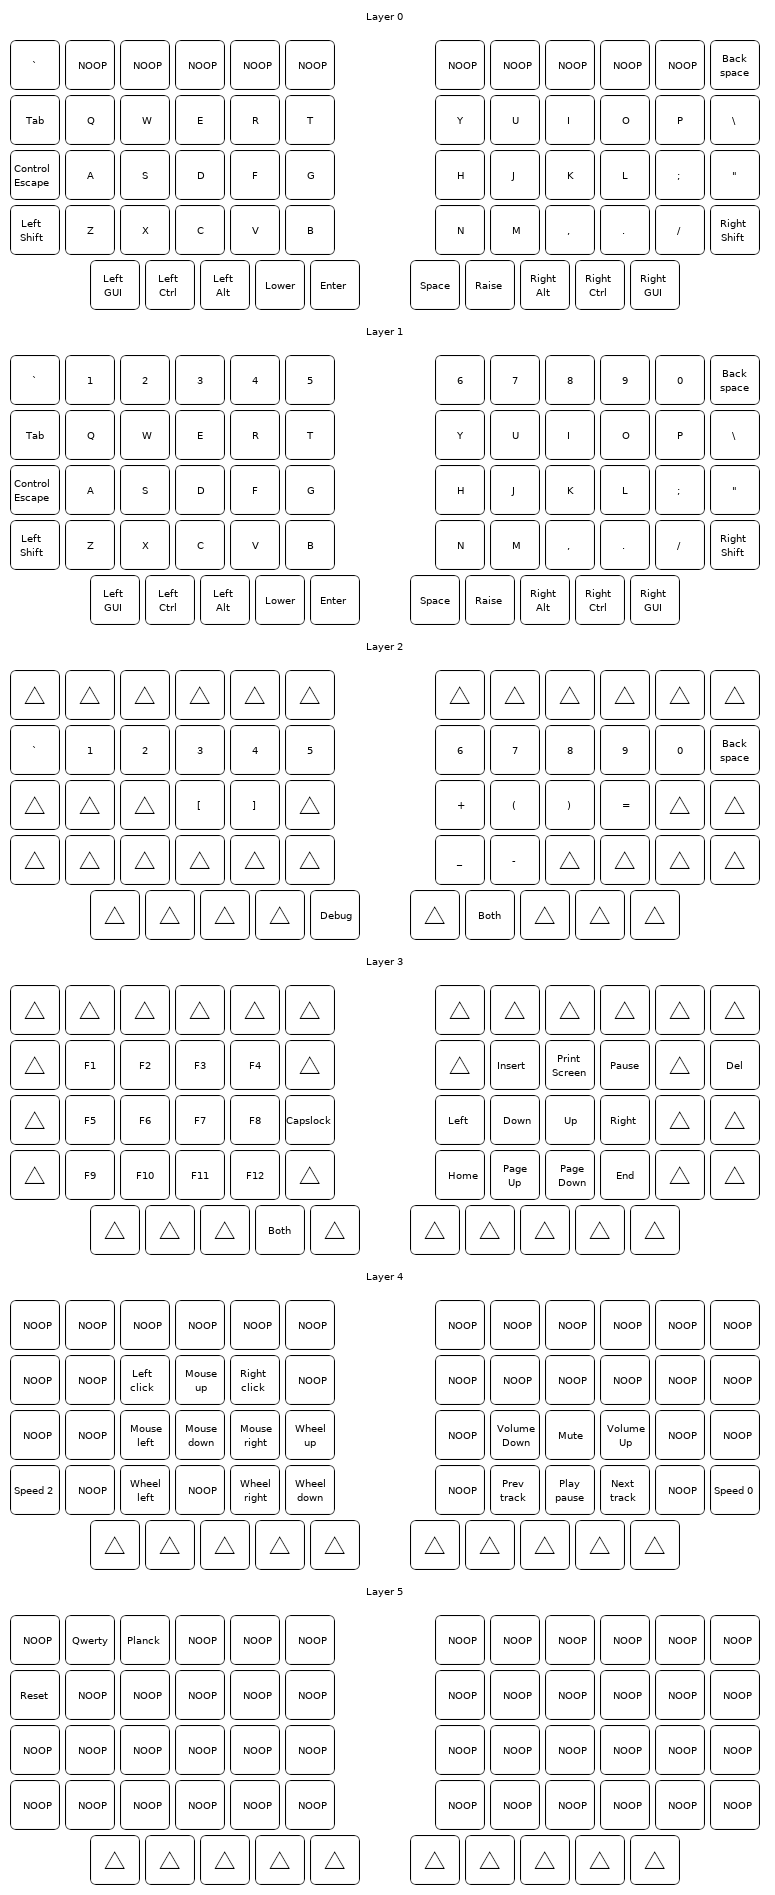
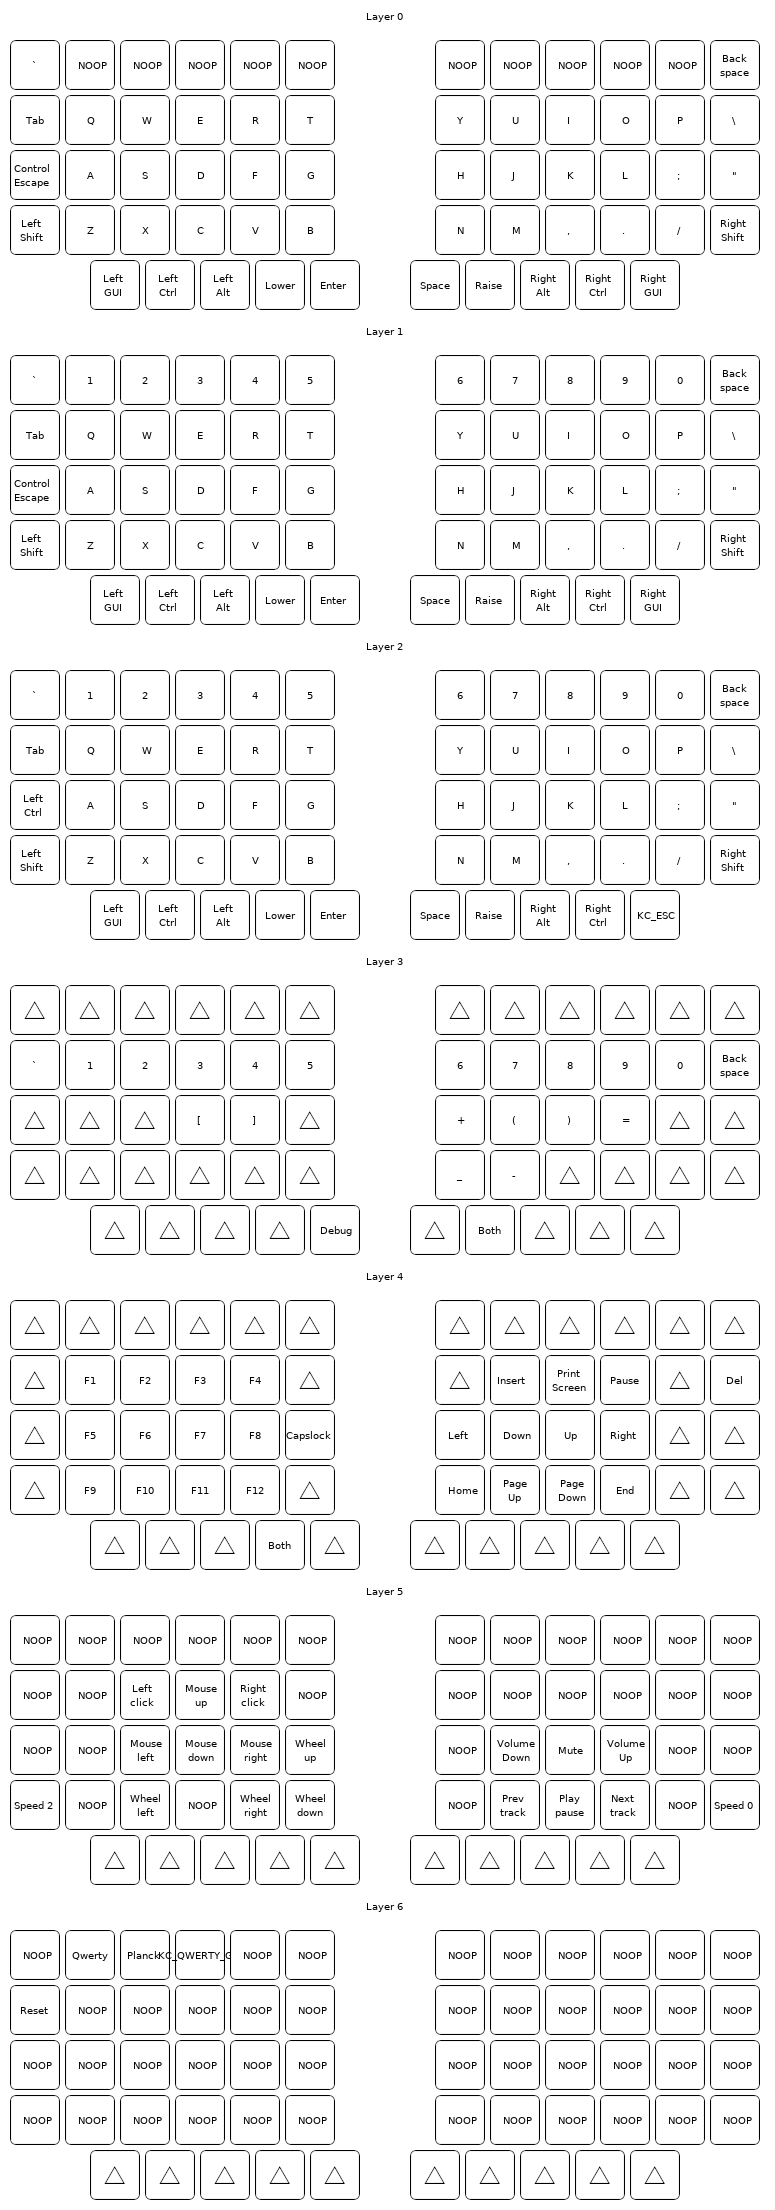
Add game layer

Changed region(s): [[0.5265, 0.0, 0.991, 0.9963], [0.0, 0.0, 0.4645, 0.9963]]

diff --git a/keymap.c b/keymap.c
@@ -3,6 +3,7 @@
 enum sofle_layers {
     _QWERTY,
     _QWERTY_SLIM,
+    _QWERTY_GAME,
     _LOWER,
     _RAISE,
     _BOTH,
@@ -12,6 +13,7 @@ enum sofle_layers {
 enum sofle_keycodes {
     KC_QWERTY = SAFE_RANGE,
     KC_QWERTY_SLIM,
+    KC_QWERTY_GAME,
 };
 
 const uint16_t PROGMEM keymaps[][MATRIX_ROWS][MATRIX_COLS] = {
@@ -60,6 +62,29 @@ const uint16_t PROGMEM keymaps[][MATRIX_ROWS][MATRIX_COLS] = {
   CTL_T(KC_ESC),KC_A,   KC_S,    KC_D,    KC_F,    KC_G,                      KC_H,  KC_J,  KC_K,   KC_L,   KC_SCLN,KC_QUOT,
   KC_LSFT,      KC_Z,   KC_X,    KC_C,    KC_V,    KC_B, KC_MUTE,     _______,KC_N,  KC_M,  KC_COMM,KC_DOT, KC_SLSH,KC_RSFT,
                   KC_LGUI,  KC_LCTRL,KC_LALT,MO(_LOWER), KC_ENT,      KC_SPC,  MO(_RAISE), KC_RALT,  KC_RCTRL, KC_RGUI
+),
+/*
+ * QWERTY (gaming)
+ * ,-----------------------------------------.                    ,-----------------------------------------.
+ * |  `   |   1  |   2  |   3  |   4  |   5  |                    |   6  |   7  |   8  |   9  |   0  | Bspc |
+ * |------+------+------+------+------+------|                    |------+------+------+------+------+------|
+ * | Tab  |   Q  |   W  |   E  |   R  |   T  |                    |   Y  |   U  |   I  |   O  |   P  |  \   |
+ * |------+------+------+------+------+------|                    |------+------+------+------+------+------|
+ * | LCTR |   A  |   S  |   D  |   F  |   G  |-------.    ,-------|   H  |   J  |   K  |   L  |   ;  |  '   |
+ * |------+------+------+------+------+------|       |    |       |------+------+------+------+------+------|
+ * |LShift|   Z  |   X  |   C  |   V  |   B  |-------|    |-------|   N  |   M  |   ,  |   .  |   /  |RShift|
+ * `-----------------------------------------/       /     \      \-----------------------------------------'
+ *            | LGUI | LCTR | LAlt |LOWER | /Space  /       \Enter \  |RAISE | RAlt | RCTR | Esc  |
+ *            |      |      |      |      |/       /         \      \ |      |      |      |      |
+ *            `----------------------------------'           '------''---------------------------'
+ */
+
+[_QWERTY_GAME] = LAYOUT(
+  KC_GRV,       KC_1,   KC_2,    KC_3,    KC_4,    KC_5,                      KC_6,  KC_7,  KC_8,   KC_9,   KC_0,   KC_BSPC,
+  KC_TAB,       KC_Q,   KC_W,    KC_E,    KC_R,    KC_T,                      KC_Y,  KC_U,  KC_I,   KC_O,   KC_P,   KC_BSLS,
+  KC_LCTRL,     KC_A,   KC_S,    KC_D,    KC_F,    KC_G,                      KC_H,  KC_J,  KC_K,   KC_L,   KC_SCLN,KC_QUOT,
+  KC_LSFT,      KC_Z,   KC_X,    KC_C,    KC_V,    KC_B, KC_MUTE,     _______,KC_N,  KC_M,  KC_COMM,KC_DOT, KC_SLSH,KC_RSFT,
+                  KC_LGUI,  KC_LCTRL,KC_LALT,MO(_LOWER), KC_ENT,      KC_SPC,  MO(_RAISE), KC_RALT,  KC_RCTRL, KC_ESC
 ),
 /* LOWER
  * ,-----------------------------------------.                    ,-----------------------------------------.
@@ -126,7 +151,7 @@ const uint16_t PROGMEM keymaps[][MATRIX_ROWS][MATRIX_COLS] = {
 ),
 /* DEBUG
  * ,-----------------------------------------.                    ,-----------------------------------------.
- * |      |QWERTY| SLIM |      |      |      |                    |      |      |      |      |      |      |
+ * |      |QWERTY| SLIM | GAME |      |      |                    |      |      |      |      |      |      |
  * |------+------+------+------+------+------|                    |------+------+------+------+------+------|
  * | RESET|      |      |      |      |      |                    |      |      |      |      |      |      |
  * |------+------+------+------+------+------|                    |------+------+------+------+------+------|
@@ -139,7 +164,7 @@ const uint16_t PROGMEM keymaps[][MATRIX_ROWS][MATRIX_COLS] = {
  *            `----------------------------------'           '------''---------------------------'
  */
 [_DEBUG] = LAYOUT(
-  XXXXXXX, KC_QWERTY, KC_QWERTY_SLIM, XXXXXXX, XXXXXXX, XXXXXXX,                       XXXXXXX, XXXXXXX, XXXXXXX, XXXXXXX, XXXXXXX, XXXXXXX,
+  XXXXXXX, KC_QWERTY, KC_QWERTY_SLIM, KC_QWERTY_GAME, XXXXXXX, XXXXXXX,                       XXXXXXX, XXXXXXX, XXXXXXX, XXXXXXX, XXXXXXX, XXXXXXX,
   RESET,   XXXXXXX, XXXXXXX, XXXXXXX, XXXXXXX, XXXXXXX,                       XXXXXXX, XXXXXXX, XXXXXXX, XXXXXXX, XXXXXXX, XXXXXXX,
   XXXXXXX, XXXXXXX, XXXXXXX, XXXXXXX, XXXXXXX, XXXXXXX,                       XXXXXXX, XXXXXXX, XXXXXXX, XXXXXXX, XXXXXXX, XXXXXXX,
   XXXXXXX, XXXXXXX, XXXXXXX, XXXXXXX, XXXXXXX, XXXXXXX, XXXXXXX,     XXXXXXX, XXXXXXX, XXXXXXX, XXXXXXX, XXXXXXX, XXXXXXX, XXXXXXX,
@@ -177,6 +202,9 @@ static void print_status_narrow(void) {
         case _QWERTY_SLIM:
             oled_write_ln_P(PSTR("Slim"), false);
             break;
+        case _QWERTY_GAME:
+            oled_write_ln_P(PSTR("Game"), false);
+            break;
         default:
             oled_write_P(PSTR("Undef"), false);
     }
@@ -189,6 +217,9 @@ static void print_status_narrow(void) {
             break;
         case _QWERTY_SLIM:
             oled_write_P(PSTR("Slim\n"), false);
+            break;
+        case _QWERTY_GAME:
+            oled_write_P(PSTR("Game\n"), false);
             break;
         case _RAISE:
             oled_write_P(PSTR("Raise"), false);
@@ -259,6 +290,11 @@ bool process_record_user(uint16_t keycode, keyrecord_t *record) {
     case KC_QWERTY_SLIM:
         if (record->event.pressed) {
             set_single_persistent_default_layer(_QWERTY_SLIM);
+        }
+        return false;
+    case KC_QWERTY_GAME:
+        if (record->event.pressed) {
+            set_single_persistent_default_layer(_QWERTY_GAME);
         }
         return false;
     }
